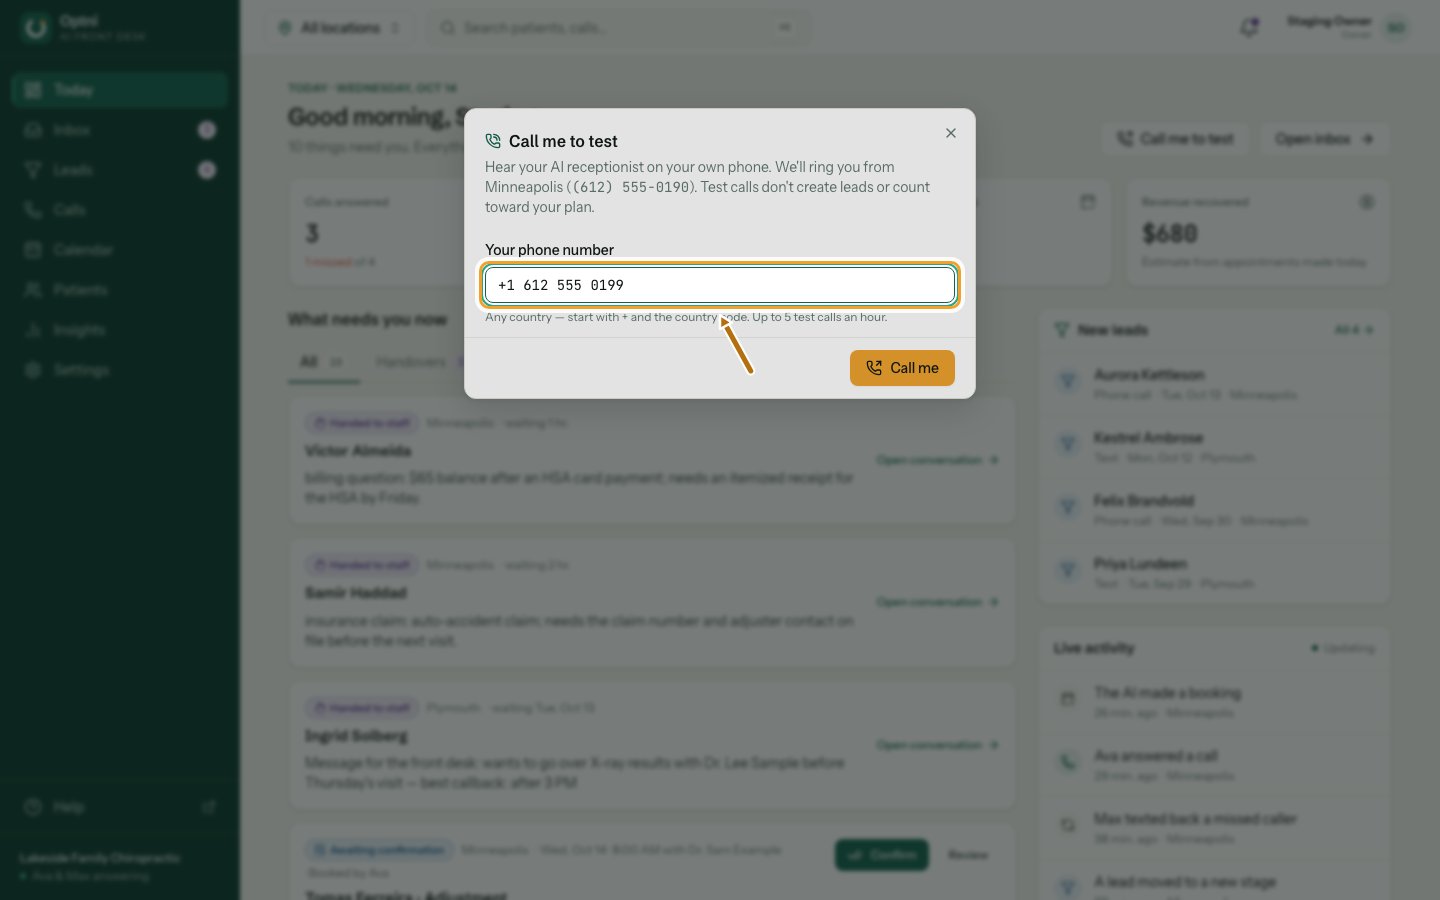
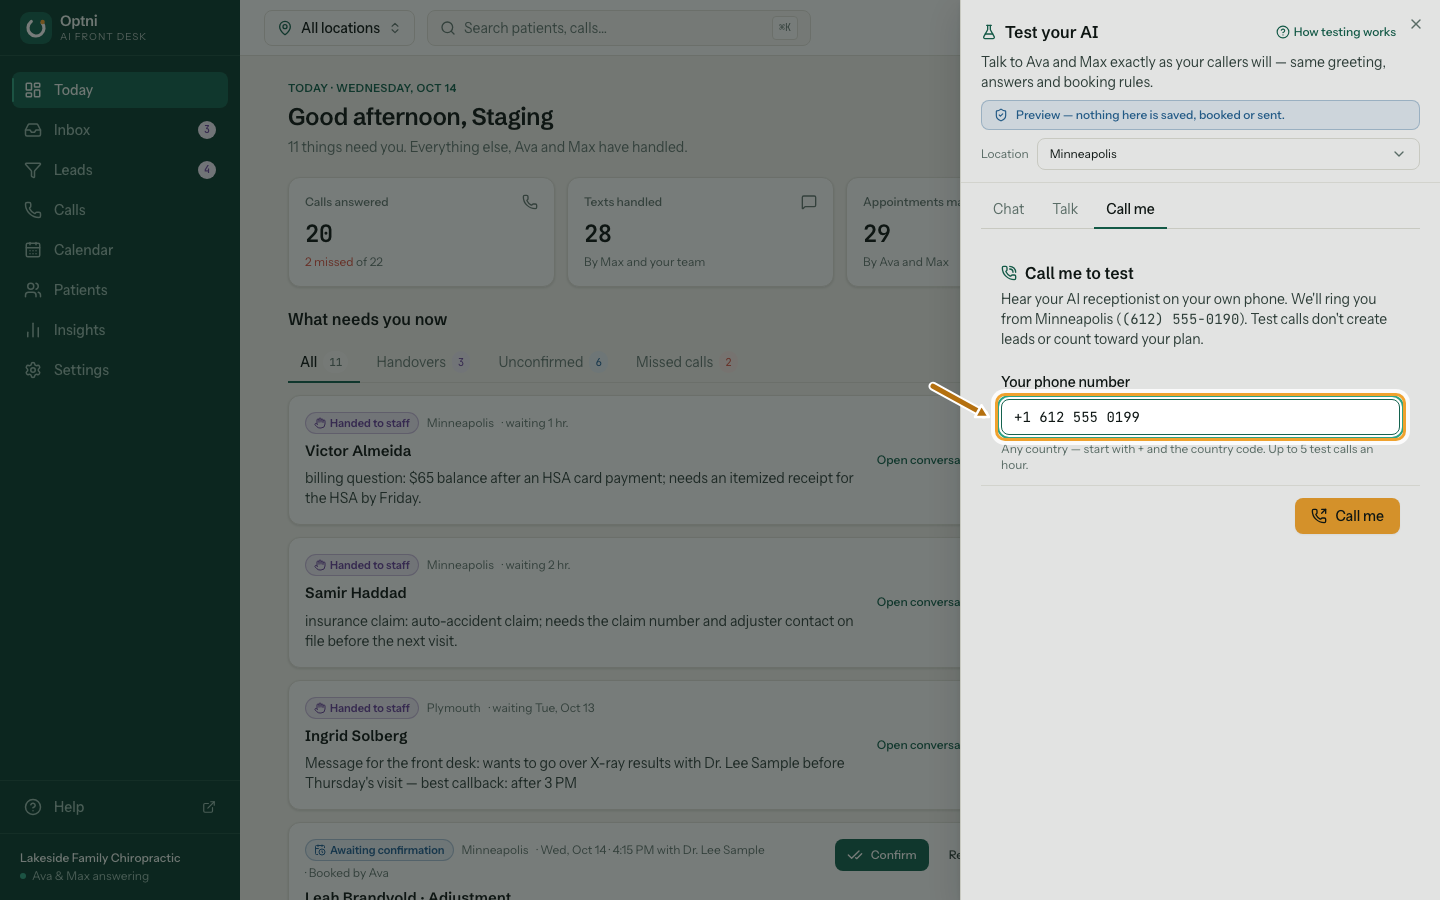
Guide: Test your AI before going live (§14); Call me to test is now a tab
New guide test-your-ai (Getting started, Start here path) with 9 screenshots from the
capture pipeline (Lakeside seed + sample mode, synthetic only). call-me-to-test
re-captured for the Test your AI panel; ai-knowledge points to Try it.

diff --git a/src/guides/content/test-your-ai.ts b/src/guides/content/test-your-ai.ts
@@ -1,0 +1,148 @@
+import type { Guide } from "../types.ts";
+import { button, inDialog, label, tab } from "../targets.ts";
+
+const openPanel = { do: "click", target: button("Test your AI") } as const;
+const send = (value: string, who: "Ava" | "Max" = "Ava") =>
+  [
+    { do: "fill", target: inDialog(label(new RegExp(`Your message to ${who}`))), value },
+    { do: "click", target: inDialog(button("Send", true)) },
+  ] as const;
+const knowledge = { role: "region", name: "What your AI should know" } as const;
+
+export default {
+  slug: "test-your-ai",
+  title: "Test your AI before going live",
+  description: "Chat or talk with Ava and Max in your dashboard — same answers and booking rules as a real call, but nothing is saved, booked or sent.",
+  category: "start",
+  order: 4,
+  roles: "Everyone on your team. Call me (a real test call) is for owners and admins.",
+  intro:
+    "Before customers call, try your AI receptionist yourself. Test your AI runs the same Ava and Max your callers will get — your greeting, your hours, your booking types and what you told the AI about your business. It's free and needs no phone number: anything the AI books, moves or passes to your team is only a preview. Nothing is saved, booked or sent.",
+  steps: [
+    {
+      id: "open",
+      title: "On Today, select Test your AI.",
+      body: "It's also on each location's Voice card in Settings, and next to What your AI should know as Try it.",
+      alt: "The Today page header with the Test your AI button ringed.",
+      shot: { app: "web", path: "/", highlight: button("Test your AI") },
+    },
+    {
+      id: "preview",
+      title: "Check the preview banner: nothing here is real.",
+      body: "No booking appears in your calendar, nobody is notified, no text is sent and nothing counts toward your plan.",
+      alt: "The Test your AI panel with the banner 'Preview — nothing here is saved, booked or sent.' ringed and Ava's greeting below it.",
+      shot: {
+        app: "web-sample",
+        path: "/",
+        actions: [openPanel, { do: "waitFor", target: { css: '[data-testid="sim-ai"]' } }],
+        highlight: { css: '[data-testid="preview-banner"]' },
+      },
+    },
+    {
+      id: "channel",
+      title: "Choose Phone call (Ava) or Text message (Max).",
+      body: "Phone call starts with your real greeting. You read the words Ava says; callers hear them spoken.",
+      alt: "The Phone call (Ava) and Text message (Max) choice ringed.",
+      shot: {
+        app: "web-sample",
+        path: "/",
+        actions: [openPanel, { do: "waitFor", target: { css: '[data-testid="sim-ai"]' } }],
+        highlight: inDialog({ role: "radiogroup", name: "Test as" }),
+      },
+    },
+    {
+      id: "ask",
+      title: "Type what a customer would say, or tap a suggestion.",
+      body: "Try booking, prices, your hours, asking for a person, and an after-hours message.",
+      alt: "A suggestion was tapped and Ava offers two open times.",
+      shot: {
+        app: "web-sample",
+        path: "/",
+        actions: [openPanel, { do: "click", target: { css: '[data-testid="sim-starter"]', nth: 0 } }, { do: "waitFor", target: inDialog({ text: "Which works for you?" }) }],
+        highlight: { css: '[data-testid="sim-transcript"]' },
+        noArrow: true,
+      },
+    },
+    {
+      id: "what-it-did",
+      title: "Open What the AI did under a reply.",
+      body: "It lists each step in plain words — checked times, booked (preview only), took a message, asked for a person.",
+      alt: "A finished test booking with What the AI did open, showing 'Booked (preview only — nothing was saved)'.",
+      shot: {
+        app: "web-sample",
+        path: "/",
+        actions: [
+          openPanel,
+          { do: "click", target: { css: '[data-testid="sim-starter"]', nth: 0 } },
+          { do: "waitFor", target: inDialog({ text: "Which works for you?" }) },
+          ...send("Yes, the first one works"),
+          { do: "waitFor", target: inDialog({ text: /full name/ }) },
+          ...send("Pat Example"),
+          { do: "waitFor", target: inDialog({ text: /You're all set/ }) },
+          { do: "click", target: inDialog({ text: /What the AI did/, nth: 1 }) },
+        ],
+        highlight: { css: '[data-testid="sim-trace"][open]', nth: 0 },
+      },
+    },
+    {
+      id: "try-it",
+      title: "Fix an answer: edit What your AI should know, save, then select Try it.",
+      body: "Try it opens the panel beside your settings, so you can change an answer, save and ask again.",
+      alt: "Settings → Business, What your AI should know, with the Try it button ringed.",
+      shot: { app: "web", path: "/settings/business", scrollTo: knowledge, highlight: { ...button("Try it", true), within: knowledge } },
+    },
+    {
+      id: "talk",
+      title: "To hear Ava, open Talk and select Start call.",
+      body: "Talk uses your computer's microphone and your browser's voice — Chrome or Edge. Callers on your real line hear Optni's phone voice, which sounds different. Talk over Ava to interrupt her, like a caller would.",
+      alt: "The Talk tab with the browser-voice note and the Start call button ringed.",
+      shot: { app: "web-sample", path: "/", actions: [openPanel, { do: "click", target: inDialog(tab("Talk")) }], highlight: inDialog(button("Start call")) },
+    },
+    {
+      id: "call-me",
+      title: "Once you have a business number, Call me rings your own phone.",
+      body: "Until Optni connects your number, the Call me tab says it needs one — Chat and Talk work without it.",
+      alt: "The Call me tab explaining that a connected number is needed.",
+      shot: {
+        app: "web-sample",
+        path: "/?scenario=no-voice-number",
+        actions: [{ do: "click", target: button("Try it now") }, { do: "click", target: inDialog(tab("Call me")) }],
+        highlight: { css: '[data-testid="call-me-needs-number"]' },
+        noArrow: true,
+      },
+    },
+    {
+      id: "nudge",
+      title: "Not live yet? Today shows Try your AI before going live.",
+      alt: "The Try your AI before going live card on Today, with Try it now ringed.",
+      shot: { app: "web-sample", path: "/?scenario=no-voice-number", highlight: button("Try it now") },
+    },
+  ],
+  sections: [
+    {
+      heading: "What is real and what is a preview",
+      table: {
+        head: ["The AI…", "In Test your AI"],
+        rows: [
+          ["Checks open times", "Real — your live calendar and hours"],
+          ["Answers questions", "Real — your settings and What your AI should know"],
+          ["Books, moves or cancels", "Preview — checked like a real booking (a taken time is refused), but nothing is saved"],
+          ["Takes a message or asks for a person", "Preview — nobody is notified"],
+          ["Sends a text confirmation", "Never — no texts are sent"],
+        ],
+      },
+    },
+    {
+      heading: "Good to know",
+      bullets: [
+        "Reset starts a new conversation. Each one lasts up to 40 messages and is forgotten after two hours.",
+        "A business can send 300 test messages a day.",
+        "Test conversations don't appear in your inbox, calls, leads or calendar and never count toward your plan.",
+        "The AI always answers here, even when the location forwards calls, is closed or has calls switched off.",
+        "Talk needs Chrome or Edge. In Safari or Firefox, use Chat — it runs the same AI.",
+      ],
+    },
+  ],
+  related: ["ai-knowledge", "call-me-to-test", "greeting"],
+  keywords: ["test", "try", "simulator", "preview", "demo", "chat with Ava", "talk to Ava", "before going live", "sandbox"],
+} satisfies Guide;

diff --git a/src/guides/content/call-me-to-test.ts b/src/guides/content/call-me-to-test.ts
@@ -1,23 +1,23 @@
 import type { Guide } from "../types.ts";
-import { button, card, inDialog, label, settingsTab } from "../targets.ts";
+import { button, card, inDialog, label, settingsTab, tab } from "../targets.ts";
 
 export default {
   slug: "call-me-to-test",
   title: "Call me to test: hear your AI receptionist",
   description: "Have Ava call your own phone so you can hear her exactly as a caller would, then read the transcript.",
   category: "start",
-  order: 4,
+  order: 5,
   roles: "Owners and admins.",
-  setupByOptni: "Your location needs a phone number. Optni attaches it for you. Until then the button says there is nothing to call from.",
+  setupByOptni: "Your location needs a phone number. Optni attaches it for you. Until then the Call me tab says it needs a connected number — use Chat or Talk instead.",
   intro:
-    "Before you send real calls to Ava, hear her yourself. Call me to test rings your phone from your business number. You answer and talk to her like a customer would. Test calls are never billed and never create a lead.",
+    "Before you send real calls to Ava, hear her yourself. Call me — the third tab of Test your AI — rings your phone from your business number. You answer and talk to her like a customer would. Test calls are never billed and never create a lead.",
   steps: [
     {
       id: "open",
-      title: "On Today, select Call me to test.",
-      body: "It is also on each location's Voice card in Settings → Locations & channels.",
-      alt: "The Today page header with the Call me to test button ringed.",
-      shot: { app: "web", path: "/", highlight: button("Call me to test") },
+      title: "On Today, select Test your AI, then the Call me tab.",
+      body: "On a location's Voice card in Settings → Locations & channels, Test your AI opens straight on Call me.",
+      alt: "The Test your AI panel with the Call me tab ringed.",
+      shot: { app: "web", path: "/", actions: [{ do: "click", target: button("Test your AI") }], highlight: inDialog(tab("Call me")) },
     },
     {
       id: "number",
@@ -27,7 +27,7 @@ export default {
       shot: {
         app: "web",
         path: "/",
-        actions: [{ do: "click", target: button("Call me to test") }, { do: "fill", target: inDialog(label("Your phone number")), value: "+1 612 555 0199" }],
+        actions: [{ do: "click", target: button("Test your AI") }, { do: "click", target: inDialog(tab("Call me")) }, { do: "fill", target: inDialog(label("Your phone number")), value: "+1 612 555 0199" }],
         highlight: inDialog(label("Your phone number")),
       },
     },
@@ -40,7 +40,8 @@ export default {
         app: "web-sample",
         path: "/",
         actions: [
-          { do: "click", target: button("Call me to test") },
+          { do: "click", target: button("Test your AI") },
+          { do: "click", target: inDialog(tab("Call me")) },
           { do: "fill", target: inDialog(label("Your phone number")), value: "+1 612 555 0199" },
           { do: "click", target: inDialog(button("Call me", true)) },
           { do: "waitFor", target: inDialog({ text: "Completed" }) },
@@ -58,7 +59,8 @@ export default {
         app: "web-sample",
         path: "/",
         actions: [
-          { do: "click", target: button("Call me to test") },
+          { do: "click", target: button("Test your AI") },
+          { do: "click", target: inDialog(tab("Call me")) },
           { do: "fill", target: inDialog(label("Your phone number")), value: "+1 612 555 0199" },
           { do: "click", target: inDialog(button("Call me", true)) },
           { do: "waitFor", target: inDialog({ text: "Completed" }) },
@@ -68,9 +70,9 @@ export default {
     },
     {
       id: "from-settings",
-      title: "To test another location, use Call me to test on its Voice card.",
-      alt: "Settings → Locations & channels, Voice — Ava card, with Call me to test ringed.",
-      shot: { app: "web", path: "/settings", scrollTo: card("Voice — Ava"), highlight: { ...button("Call me to test"), within: card("Voice — Ava") } },
+      title: "To test another location, use Test your AI on its Voice card.",
+      alt: "Settings → Locations & channels, Voice — Ava card, with Test your AI ringed.",
+      shot: { app: "web", path: "/settings", scrollTo: card("Voice — Ava"), highlight: { ...button("Test your AI"), within: card("Voice — Ava") } },
     },
   ],
   sections: [
@@ -84,7 +86,7 @@ export default {
       ],
     },
   ],
-  related: ["greeting", "ai-knowledge", "calls"],
+  related: ["test-your-ai", "greeting", "ai-knowledge", "calls"],
   keywords: ["test call", "demo", "try", "hear Ava", "phone test"],
 } satisfies Guide;
 void settingsTab;

diff --git a/src/guides/content/ai-knowledge.ts b/src/guides/content/ai-knowledge.ts
@@ -103,9 +103,9 @@ export default {
     },
     {
       heading: "Check it",
-      paragraphs: ["After saving, use Call me to test and ask Ava one of your questions. Check Insights later: fewer transferred calls and messages usually means the answers are working."],
+      paragraphs: ["After saving, select Try it (next to the help link) and ask Ava or Max one of your questions — the panel stays open beside your settings, so you can fix an answer, save and ask again. Nothing in it is saved or sent. Or use Call me to test to hear Ava on your phone. Check Insights later: fewer transferred calls and messages usually means the answers are working."],
     },
   ],
-  related: ["review-link-and-location-note", "call-me-to-test", "business-and-industry"],
+  related: ["test-your-ai", "review-link-and-location-note", "call-me-to-test", "business-and-industry"],
   keywords: ["knowledge base", "FAQ", "questions", "policies", "about", "prices", "train AI", "what AI knows"],
 } satisfies Guide;

diff --git a/src/lib/site.ts b/src/lib/site.ts
@@ -36,6 +36,7 @@ export const startHere: { slug: string; why: string }[] = [
   { slug: "booking-types", why: "Set what can be booked, and what the AI may book." },
   { slug: "ai-knowledge", why: "Tell Ava and Max about your business, FAQs and policies." },
   { slug: "greeting", why: "Make the greeting sound like you." },
+  { slug: "test-your-ai", why: "Chat and talk with Ava and Max before going live — nothing is saved." },
   { slug: "call-me-to-test", why: "Hear Ava on your own phone." },
   { slug: "invite-your-team", why: "Invite your team and pick their roles." },
   { slug: "notifications", why: "Get handover alerts on your phone." },

diff --git a/src/guides/index.ts b/src/guides/index.ts
@@ -6,6 +6,7 @@ import type { Guide } from "./types.ts";
 import signIn from "./content/sign-in.ts";
 import recoveryCodes from "./content/recovery-codes.ts";
 import resetPassword from "./content/reset-password.ts";
+import testYourAi from "./content/test-your-ai.ts";
 import callMeToTest from "./content/call-me-to-test.ts";
 import inviteYourTeam from "./content/invite-your-team.ts";
 import switchBusinesses from "./content/switch-businesses.ts";
@@ -44,6 +45,7 @@ export const guides: Guide[] = [
   signIn,
   recoveryCodes,
   resetPassword,
+  testYourAi,
   callMeToTest,
   inviteYourTeam,
   switchBusinesses,
